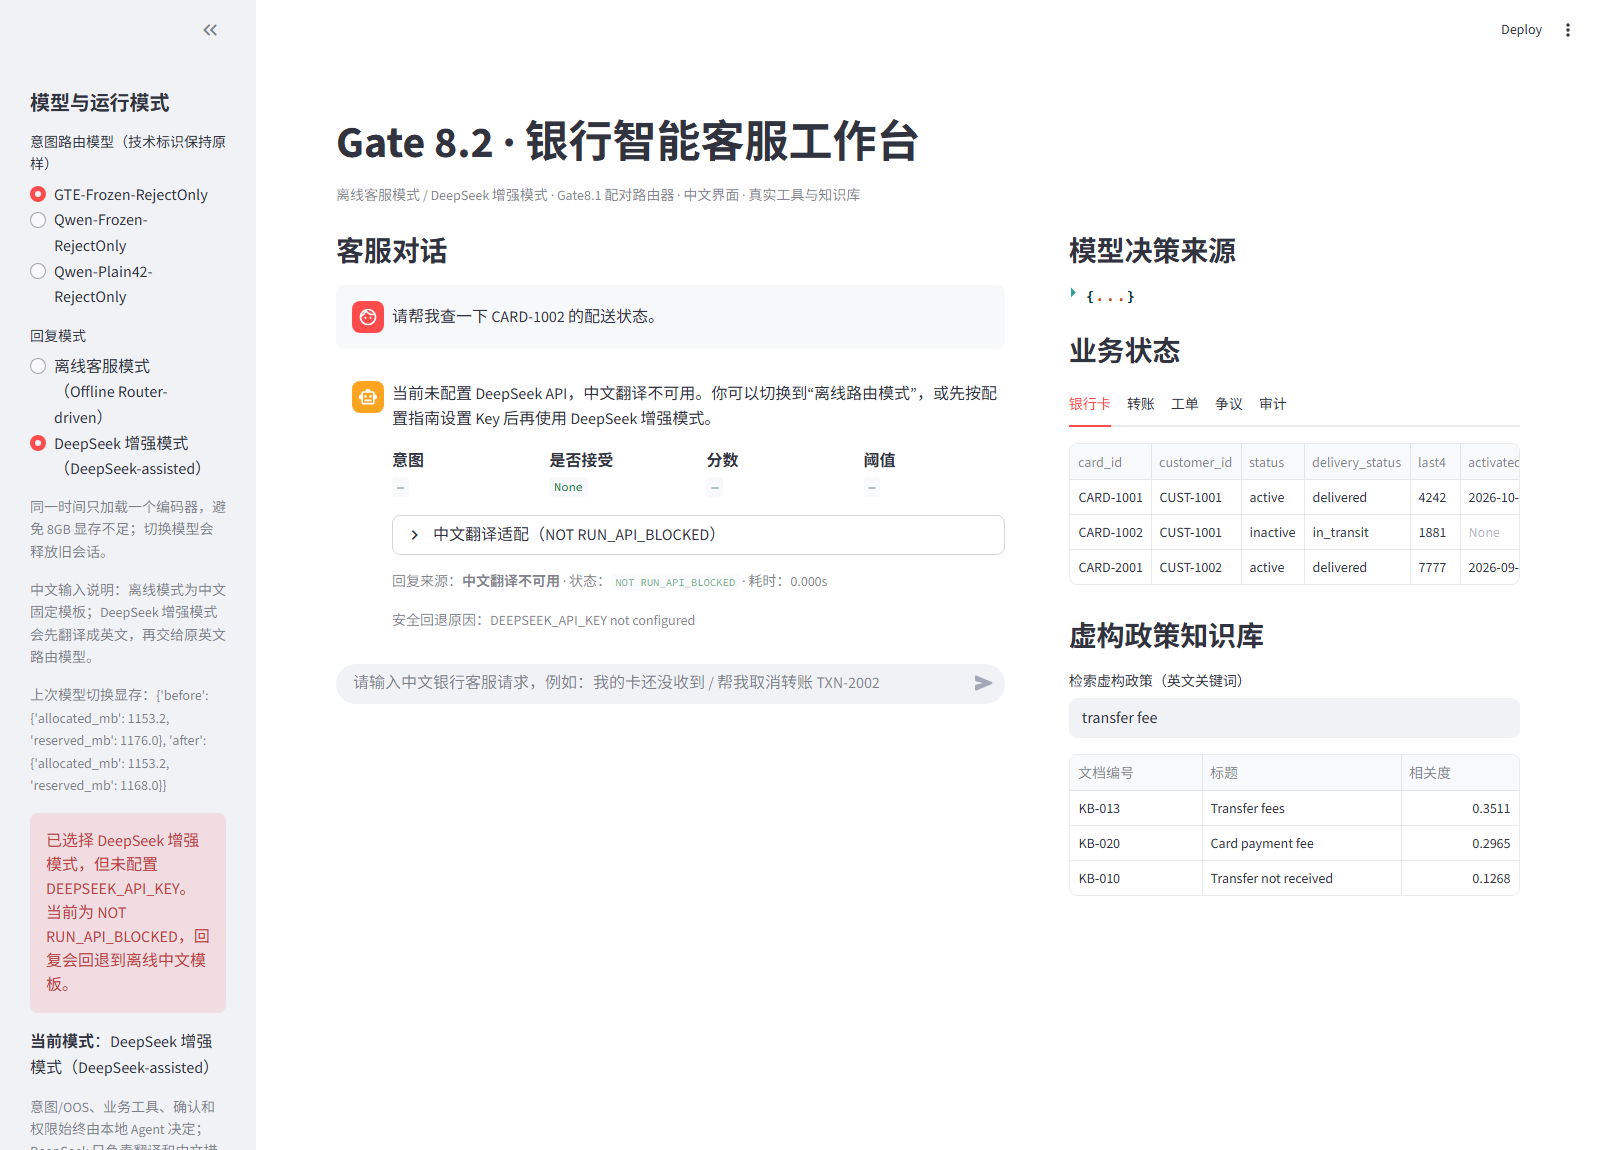
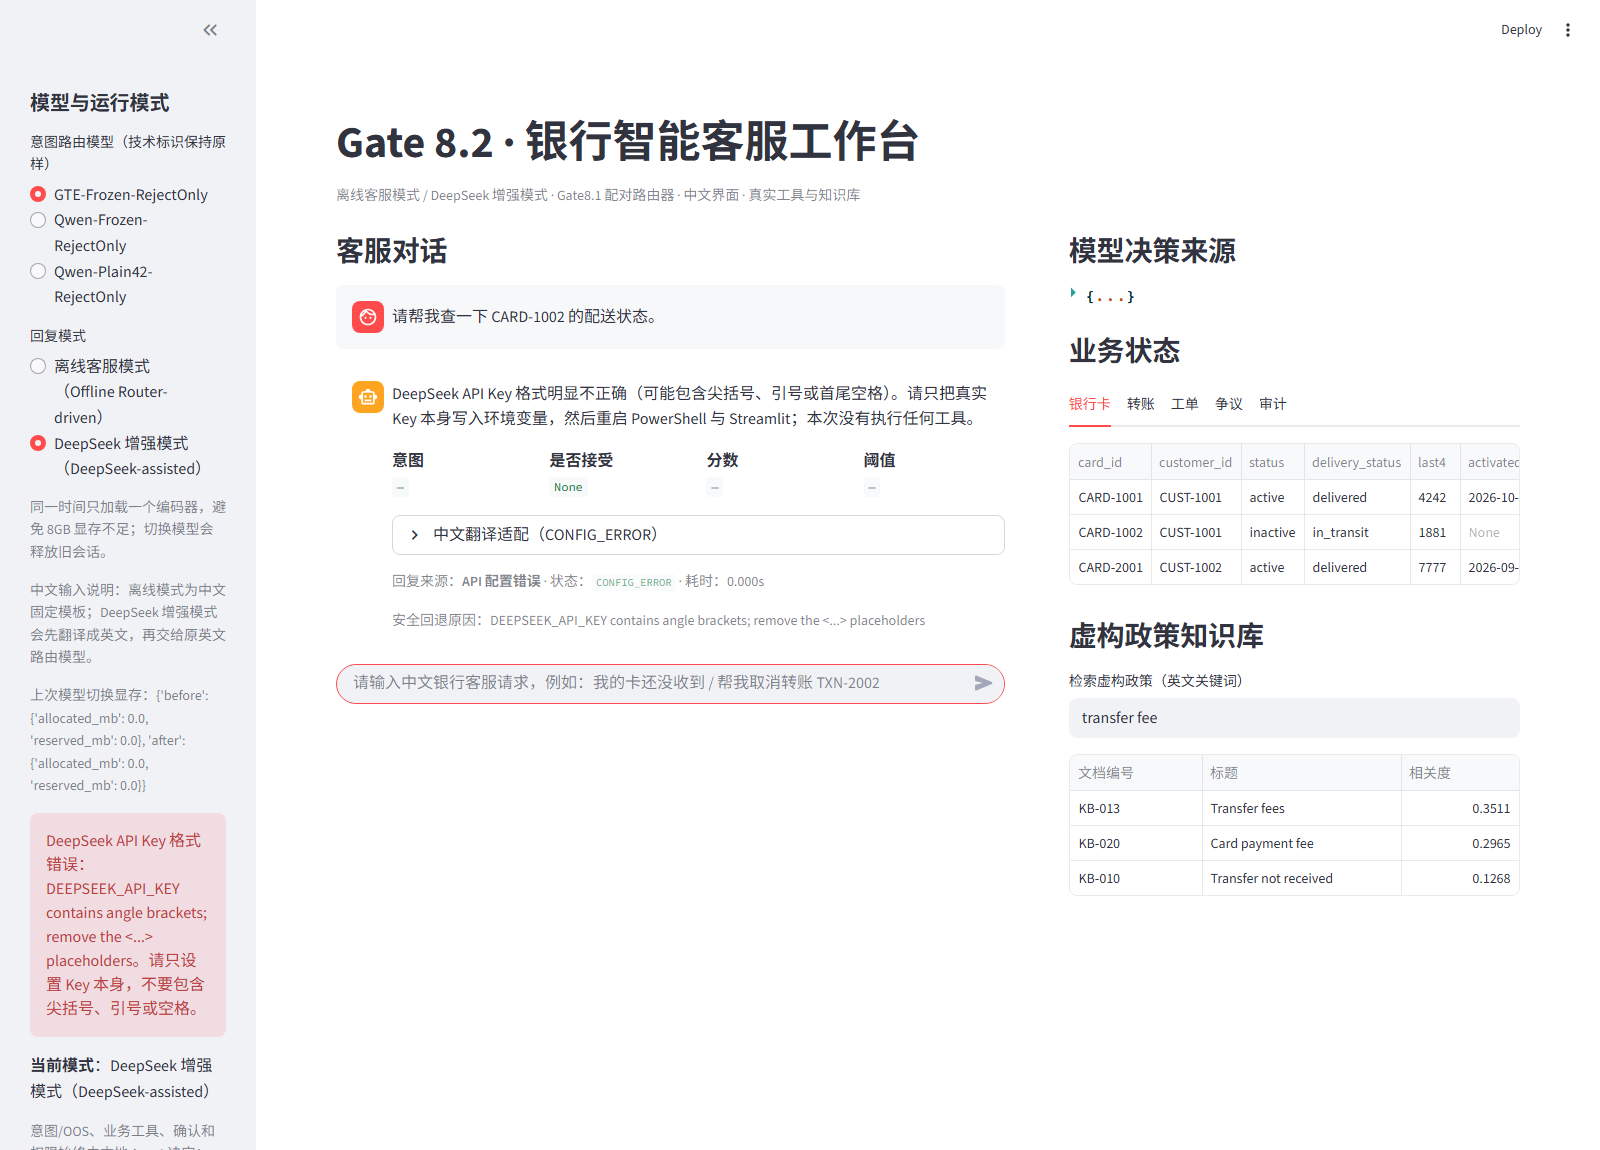
Gate 8.2: distinguish invalid DeepSeek keys from Chinese translation ambiguity

diff --git a/app_gate8.py b/app_gate8.py
@@ -52,7 +52,27 @@ SOURCE_LABELS = {
     "offline_blocked": "离线回退（API 未配置）",
     "translation_blocked": "中文翻译不可用",
     "translation_fallback": "翻译/歧义回退",
+    "api_config_error": "API 配置错误",
+    "api_auth_error": "API 认证失败",
+    "api_billing_error": "API 余额/计费问题",
+    "api_rate_error": "API 限流",
+    "api_timeout": "API 超时/网络",
 }
+
+
+def classify_api_error(error: str | None) -> str | None:
+    e = (error or "").lower()
+    if "config_error" in e or "angle brackets" in e or "quote characters" in e or "whitespace" in e:
+        return "api_config_error"
+    if "http 401" in e or "authentication" in e or "invalid" in e and "api key" in e:
+        return "api_auth_error"
+    if "http 402" in e or "balance" in e or "billing" in e:
+        return "api_billing_error"
+    if "http 429" in e or "rate" in e:
+        return "api_rate_error"
+    if "timeout" in e or "timed out" in e or "network" in e:
+        return "api_timeout"
+    return None
 
 DEMOS = {
     "1. Card delivery": [
@@ -214,9 +234,25 @@ def send(name: str, mode: str, text: str) -> None:
             "error": tr.error,
         }
         if tr.status != "ok":
+            kind = classify_api_error(tr.error)
             if tr.status == "NOT RUN_API_BLOCKED":
-                reply = "当前未配置 DeepSeek API，中文翻译不可用。你可以切换到“离线路由模式”，或先按配置指南设置 Key 后再使用 DeepSeek 增强模式。"
+                reply = "当前未配置 DeepSeek API，中文翻译不可用。你可以切换到“离线客服模式”，或先按配置指南设置 Key 后再使用 DeepSeek 增强模式。"
                 source = "translation_blocked"
+            elif tr.status == "CONFIG_ERROR":
+                reply = "DeepSeek API Key 格式明显不正确（可能包含尖括号、引号或首尾空格）。请只把真实 Key 本身写入环境变量，然后重启 PowerShell 与 Streamlit；本次没有执行任何工具。"
+                source = "api_config_error"
+            elif kind == "api_auth_error":
+                reply = "DeepSeek API 认证失败（HTTP 401），说明 Key 无效、被撤销或复制不完整。请重新创建/核对 Key，确认没有尖括号、引号或多余字符；本次没有执行任何工具。"
+                source = "api_auth_error"
+            elif kind == "api_billing_error":
+                reply = "DeepSeek 返回余额/计费问题（HTTP 402）。请检查账户余额；本次没有执行任何工具。"
+                source = "api_billing_error"
+            elif kind == "api_rate_error":
+                reply = "DeepSeek 返回限流（HTTP 429）。请停止重试，稍后再试；本次没有执行任何工具。"
+                source = "api_rate_error"
+            elif kind == "api_timeout":
+                reply = "DeepSeek 请求超时或网络不可达。请检查代理/网络或稍后重试；本次没有执行任何工具。"
+                source = "api_timeout"
             else:
                 reply = "这条中文请求无法可靠翻译或存在歧义。为避免误触发银行业务，尚未执行任何工具；请换一种说法或补充业务编号。"
                 source = "translation_fallback"
@@ -240,7 +276,11 @@ def send(name: str, mode: str, text: str) -> None:
     reply_source = "offline"
     reply_meta = {"status": "offline", "error": None, "elapsed_seconds": 0.0, "usage": {}}
     if mode == "DeepSeek-assisted":
-        if not deepseek_writer().available:
+        ds_cfg = deepseek_client().status()
+        if ds_cfg.get("config_error"):
+            reply_source = "api_config_error"
+            reply_meta = {"status": "CONFIG_ERROR", "error": ds_cfg["config_error"], "elapsed_seconds": 0.0, "usage": {}}
+        elif not deepseek_writer().available:
             reply_source = "offline_blocked"
             reply_meta = {"status": "NOT RUN_API_BLOCKED", "error": "DEEPSEEK_API_KEY not configured", "elapsed_seconds": 0.0, "usage": {}}
         else:
@@ -257,6 +297,8 @@ def send(name: str, mode: str, text: str) -> None:
             )
             reply = rr.text
             reply_source = rr.source
+            if rr.status != "ok":
+                reply_source = classify_api_error(rr.error) or "fallback"
             reply_meta = {"status": rr.status, "error": rr.error, "elapsed_seconds": rr.elapsed_seconds, "usage": rr.usage}
     msgs.append(
         {
@@ -305,7 +347,9 @@ def main() -> None:
         st.caption("中文输入说明：离线模式为中文固定模板；DeepSeek 增强模式会先翻译成英文，再交给原英文路由模型。")
         if st.session_state.get("last_release"):
             st.caption(f"上次模型切换显存：{st.session_state['last_release']}")
-        if mode == "DeepSeek-assisted" and not ds_status["available"]:
+        if mode == "DeepSeek-assisted" and ds_status.get("config_error"):
+            st.error(f"DeepSeek API Key 格式错误：{ds_status['config_error']}。请只设置 Key 本身，不要包含尖括号、引号或空格。")
+        elif mode == "DeepSeek-assisted" and not ds_status["available"]:
             st.error("已选择 DeepSeek 增强模式，但未配置 DEEPSEEK_API_KEY。当前为 NOT RUN_API_BLOCKED，回复会回退到离线中文模板。")
         st.markdown(f"**当前模式**：{MODE_LABELS[mode]}")
         st.caption("意图/OOS、业务工具、确认和权限始终由本地 Agent 决定；DeepSeek 只负责翻译和中文措辞。")

diff --git a/src/gate8_2/deepseek_client.py b/src/gate8_2/deepseek_client.py
@@ -15,6 +15,17 @@ class DeepSeekUnavailable(RuntimeError):
     pass
 
 
+def key_shape_error(key: str) -> str | None:
+    """Detect obvious copy/paste mistakes without ever echoing the value."""
+    if key != key.strip():
+        return "DEEPSEEK_API_KEY has leading/trailing whitespace"
+    if "<" in key or ">" in key:
+        return "DEEPSEEK_API_KEY contains angle brackets; remove the <...> placeholders"
+    if key[:1] in {'"', "'"} or key[-1:] in {'"', "'"}:
+        return "DEEPSEEK_API_KEY contains quote characters; set only the key value"
+    return None
+
+
 @dataclass
 class DeepSeekResult:
     text: str
@@ -29,10 +40,11 @@ class DeepSeekClient:
         self.base_url = (base_url if base_url is not None else os.environ.get("DEEPSEEK_BASE_URL", "https://api.deepseek.com")).rstrip("/")
         self.model = model if model is not None else os.environ.get("DEEPSEEK_MODEL", "deepseek-flash")
         self.timeout = float(timeout if timeout is not None else os.environ.get("DEEPSEEK_TIMEOUT", "12"))
+        self.config_error = key_shape_error(self.api_key)
 
     @property
     def available(self) -> bool:
-        return bool(self.api_key and self.base_url and self.model)
+        return bool(self.api_key and self.base_url and self.model and not self.config_error)
 
     def status(self) -> dict[str, Any]:
         # Deliberately never return the key or an Authorization header.
@@ -42,8 +54,10 @@ class DeepSeekClient:
             "base_url": self.base_url,
             "model": self.model,
             "api_key_set": bool(self.api_key),
+            "key_format_ok": not bool(self.config_error),
+            "config_error": self.config_error,
             "timeout_seconds": self.timeout,
-            "mode": "deepseek" if self.available else "NOT RUN_API_BLOCKED",
+            "mode": "config_error" if self.config_error else ("deepseek" if self.available else "NOT RUN_API_BLOCKED"),
         }
 
     def _endpoint(self) -> str:
@@ -52,6 +66,8 @@ class DeepSeekClient:
         return self.base_url + "/chat/completions"
 
     def chat(self, messages: list[dict[str, str]], *, temperature: float = 0.2, max_tokens: int = 300, json_mode: bool = False) -> DeepSeekResult:
+        if self.config_error:
+            raise DeepSeekUnavailable(f"DEEPSEEK_CONFIG_ERROR: {self.config_error}")
         if not self.available:
             raise DeepSeekUnavailable("DEEPSEEK_API_KEY / DEEPSEEK_BASE_URL / DEEPSEEK_MODEL not configured")
         max_tokens = max(1, min(int(max_tokens), 512))

diff --git a/tests/test_gate8_2_deepseek.py b/tests/test_gate8_2_deepseek.py
@@ -122,6 +122,15 @@ class Gate82DeepSeekTest(unittest.TestCase):
                 c.chat([{"role": "user", "content": "hi"}])
         self.assertNotIn("secret-key-value", str(ctx.exception))
 
+    def test_key_shape_error_detected_without_request(self):
+        c = DeepSeekClient(api_key=" <sk-test-key> ", base_url="https://api.deepseek.com", model="deepseek-flash")
+        self.assertFalse(c.available)
+        self.assertIn("config_error", c.status())
+        self.assertEqual(c.status()["mode"], "config_error")
+        with self.assertRaises(DeepSeekUnavailable) as ctx:
+            c.chat([{"role": "user", "content": "hi"}])
+        self.assertIn("DEEPSEEK_CONFIG_ERROR", str(ctx.exception))
+
     def test_app_modes_and_blocked_label(self):
         text = (ROOT / "app_gate8.py").read_text(encoding="utf-8")
         self.assertIn("Offline Router-driven", text)
@@ -129,6 +138,7 @@ class Gate82DeepSeekTest(unittest.TestCase):
         self.assertIn("NOT RUN_API_BLOCKED", text)
         self.assertIn("reply_source", text)
         self.assertIn("usage", text)
+        self.assertIn("api_auth_error", text)
 
 
 if __name__ == "__main__":

diff --git a/src/gate8_2/deepseek_smoke.py b/src/gate8_2/deepseek_smoke.py
@@ -11,7 +11,10 @@ from src.gate8_2.deepseek_client import DeepSeekClient, DeepSeekUnavailable
 def main() -> int:
     c = DeepSeekClient()
     status = c.status()
-    print({k: status[k] for k in ("provider", "available", "base_url", "model", "api_key_set", "timeout_seconds", "mode")})
+    print({k: status[k] for k in ("provider", "available", "base_url", "model", "api_key_set", "key_format_ok", "config_error", "timeout_seconds", "mode")})
+    if status.get("config_error"):
+        print(f"DEEPSEEK_CONFIG_ERROR: {status['config_error']}")
+        return 2
     if not c.available:
         print("NOT RUN_API_BLOCKED: set DEEPSEEK_API_KEY, DEEPSEEK_BASE_URL, DEEPSEEK_MODEL in this PowerShell session.")
         return 2

diff --git a/src/gate8_2/chinese_adapter.py b/src/gate8_2/chinese_adapter.py
@@ -41,6 +41,9 @@ class ChineseTranslationAdapter:
     def translate(self, text: str) -> TranslationResult:
         if not self.has_chinese(text):
             return TranslationResult(text, "passthrough", "ok")
+        status = self.client.status() if hasattr(self.client, "status") else {}
+        if status.get("config_error"):
+            return TranslationResult("", "config_error", "CONFIG_ERROR", error=status["config_error"])
         if not self.available:
             return TranslationResult("", "blocked", "NOT RUN_API_BLOCKED", error="DEEPSEEK_API_KEY not configured")
         ids = {x.upper() for x in CARD_TXN.findall(text)}

diff --git a/reports/gate8_2_deepseek_demo_guide.md b/reports/gate8_2_deepseek_demo_guide.md
@@ -52,6 +52,21 @@ if ([string]::IsNullOrWhiteSpace($env:DEEPSEEK_API_KEY)) {
 
 只应看到 `SET (value hidden)`，不能看到 `sk-...`。
 
+再检查 key 的形状（不打印完整值）：
+
+```powershell
+$k = $env:DEEPSEEK_API_KEY
+"length              = $($k.Length)"
+"starts_with_sk      = $($k.StartsWith('sk-'))"
+"contains_angle      = $($k.Contains('<') -or $k.Contains('>'))"
+"contains_quote      = $($k.Contains('"') -or $k.Contains("'"))"
+"contains_whitespace = $($k -match '\s')"
+"last4               = $($k.Substring([Math]::Max(0, $k.Length - 4)))"
+```
+
+如果 `contains_angle=True`，说明把 `<...>` 也写进去了；如果 `last4` 是 `866>`，就是这种情况。
+只设置真实 Key 本身，不要带尖括号/引号/空格。
+
 ## 4. 先做一次极短真实 smoke test
 
 这一步会产生一次很小的 API 调用。`src/gate8_2/deepseek_smoke.py` 只发一句短请求，
@@ -59,6 +74,13 @@ if ([string]::IsNullOrWhiteSpace($env:DEEPSEEK_API_KEY)) {
 
 ```powershell
 .\.venv\Scripts\python.exe -m src.gate8_2.deepseek_smoke
+```
+
+如果 Key 形状明显错误，**不会发 HTTP 请求**，会直接输出：
+
+```text
+{'available': False, 'key_format_ok': False, 'mode': 'config_error', ...}
+DEEPSEEK_CONFIG_ERROR: DEEPSEEK_API_KEY contains angle brackets; remove the <...> placeholders
 ```
 
 成功时类似：
@@ -150,7 +172,9 @@ $env:TRANSFORMERS_OFFLINE = "1"
 | 现象 | 处理 |
 |---|---|
 | `available: false` | 检查是否同一 PowerShell、三个变量是否设置 |
-| 401 | 重新创建/确认 Key；不要打印 Key |
+| 401 / `Authentication Fails` | Key 无效、被撤销、复制不完整，或包含 `<>`/引号/空格；重新创建并只设置 Key 本身 |
+| `last4` 显示 `866>` | 说明 Key 末尾多了 `>`；删除尖括号后重启 PowerShell |
+| `config_error` / angle brackets | 代码在发请求前拒绝；不会再被误报为“翻译歧义” |
 | 402/余额 | 充值/检查计费 |
 | 404 | base URL 不要包含 `/chat/completions`；默认 `https://api.deepseek.com` |
 | 429 | 停止重试，稍后再试 |

diff --git a/README.md b/README.md
@@ -79,7 +79,7 @@ Gate 7 的核心结果（双层 dev + 3-seed；历史探索性 test）：
 - P1/P2 没有超过 P0；P3 完成但未选中（dev B3-H 低于 P0）；
 - B4-RejectOnly 在 GTE/Qwen、Frozen/LoRA 上稳定优于 B4-Full；
 - Agent 修复 5 条澄清后，Qwen RejectOnly 81/120、GTE RejectOnly 73/120；
-- 108 个测试通过。
+- 109 个测试通过。
 
 Gate 7.1 修复：
 
@@ -210,7 +210,7 @@ Gate 1/2 历史结果保持冻结：
 [Gate8.1 失败热力图](figures/gate8_1_failure_heatmap.png)  
 Demo：[app_gate8.py](app_gate8.py) ·
 [Gate8.2 中文离线界面](figures/gate8_2_ui_chinese_offline.png) ·
-[Gate8.2 中文 DeepSeek 阻塞](figures/gate8_2_ui_chinese_blocked.png) ·
+[Gate8.2 中文 API 配置错误演示](figures/gate8_2_ui_chinese_blocked.png) ·
 [Gate8.2 离线模式](figures/gate8_2_ui_offline.png) ·
 [Gate8.2 DeepSeek 无 Key 阻塞](figures/gate8_2_ui_deepseek_blocked.png) ·
 [Gate8 卡状态截图](figures/gate8_ui_card.png) ·
@@ -544,7 +544,7 @@ PREPARE_DATA_OK
 成功输出末尾：
 
 ```text
-Ran 108 tests in ...s
+Ran 109 tests in ...s
 OK
 ```
 
@@ -572,7 +572,7 @@ cd D:\code\intent-open-set
 .\.venv\Scripts\python.exe -m unittest discover -s tests -v
 ```
 
-预期最后一行是 `OK`，共 108 个测试。请反馈
+预期最后一行是 `OK`，共 109 个测试。请反馈
 `logs/gate7_all_tests.log`；如需环境信息，再反馈
 `data/manifest/environment.json`。
 
@@ -932,7 +932,7 @@ Gate 7 的主要判断：
 - P1/P2 没有超过 P0；P3 完成但未选中（dev B3-H 低于 P0）；
 - B4-RejectOnly 在 GTE Frozen、GTE-LoRA、Qwen Frozen 上稳定优于 Full；
 - Agent 修复 5 条澄清后，Qwen RejectOnly 81/120、GTE RejectOnly 73/120；
-- 108 个测试通过。
+- 109 个测试通过。
 
 尚未做：
 

diff --git a/reports/gate8_2_deepseek_integration.md b/reports/gate8_2_deepseek_integration.md
@@ -87,6 +87,9 @@ Reply mode
 - `figures/gate8_2_ui_chinese_offline.png`
 - `figures/gate8_2_ui_chinese_blocked.png`
 
+`gate8_2_ui_chinese_blocked.png` 使用本地合成 malformed key 演示 Key 格式拦截，
+没有真实请求；真实 401 由 API 返回，不属于“翻译歧义”。
+
 ---
 
 ## 4. 安全测试（Mock）
@@ -105,11 +108,23 @@ Reply mode
 
 中文专项 `tests/test_gate8_2_chinese.py` 7 项：20 案例、直接探针、ID 保真、
 翻译拒绝新增/遗漏 ID、中文模板、中文 writer 拒绝虚假操作、中文 UI。
-全量 **108 tests OK**。
+全量 **109 tests OK**。
 
 日志：`logs/gate8_2_tests_b.log`、`logs/gate8_2_chinese_all_tests.log`。
 
 ---
+
+## 4.5 401/Key 格式诊断
+
+已修复两个误报来源：
+
+1. **Key 形状检查**：`DEEPSEEK_API_KEY` 含尖括号 `< >`、引号或首尾空格时，
+   `DeepSeekClient.available=False`、`mode=config_error`，在发出 HTTP 前拒绝；
+2. **UI 错误分类**：401 显示“API 认证失败”，402 显示余额、429 显示限流、
+   timeout 显示网络；只有真正的 `AMBIGUOUS`/ID mismatch 才显示“翻译歧义”。
+
+用户截图中的 `****866>` 和 HTTP 401 属于 Key 被 API 拒绝，不是中文翻译歧义，
+也未执行任何工具。处理：去掉尖括号/引号/空格，重新创建 Key，重启 PowerShell 与 Streamlit。
 
 ## 5. 真实 API 状态
 

diff --git a/reports/gate8_2_chinese_support.md b/reports/gate8_2_chinese_support.md
@@ -36,6 +36,9 @@
 - `figures/gate8_2_ui_chinese_offline.png`
 - `figures/gate8_2_ui_chinese_blocked.png`
 
+其中 blocked 截图使用**本地合成的 malformed key**（`<sk-dummy-866>`）演示
+Key 形状错误会被拦截；没有向 DeepSeek 发请求，也不是真实 Key。
+
 ## 3. 中文离线模板
 
 `src/gate8_2/chinese_templates.py`：
@@ -133,7 +136,7 @@
 ## 8. 测试
 
 - 中文专项 7 项：`tests/test_gate8_2_chinese.py`；
-- 全量 **108 tests OK**：`logs/gate8_2_chinese_all_tests.log`；
+- 全量 **109 tests OK**：`logs/gate8_2_chinese_all_tests.log`；
 - 覆盖 20 案例、直接探针 60 行、ID 保真、翻译拒绝新增/遗漏 ID、中文模板、
   中文 writer 拒绝虚假“已取消”、中文 UI 标签。
 
